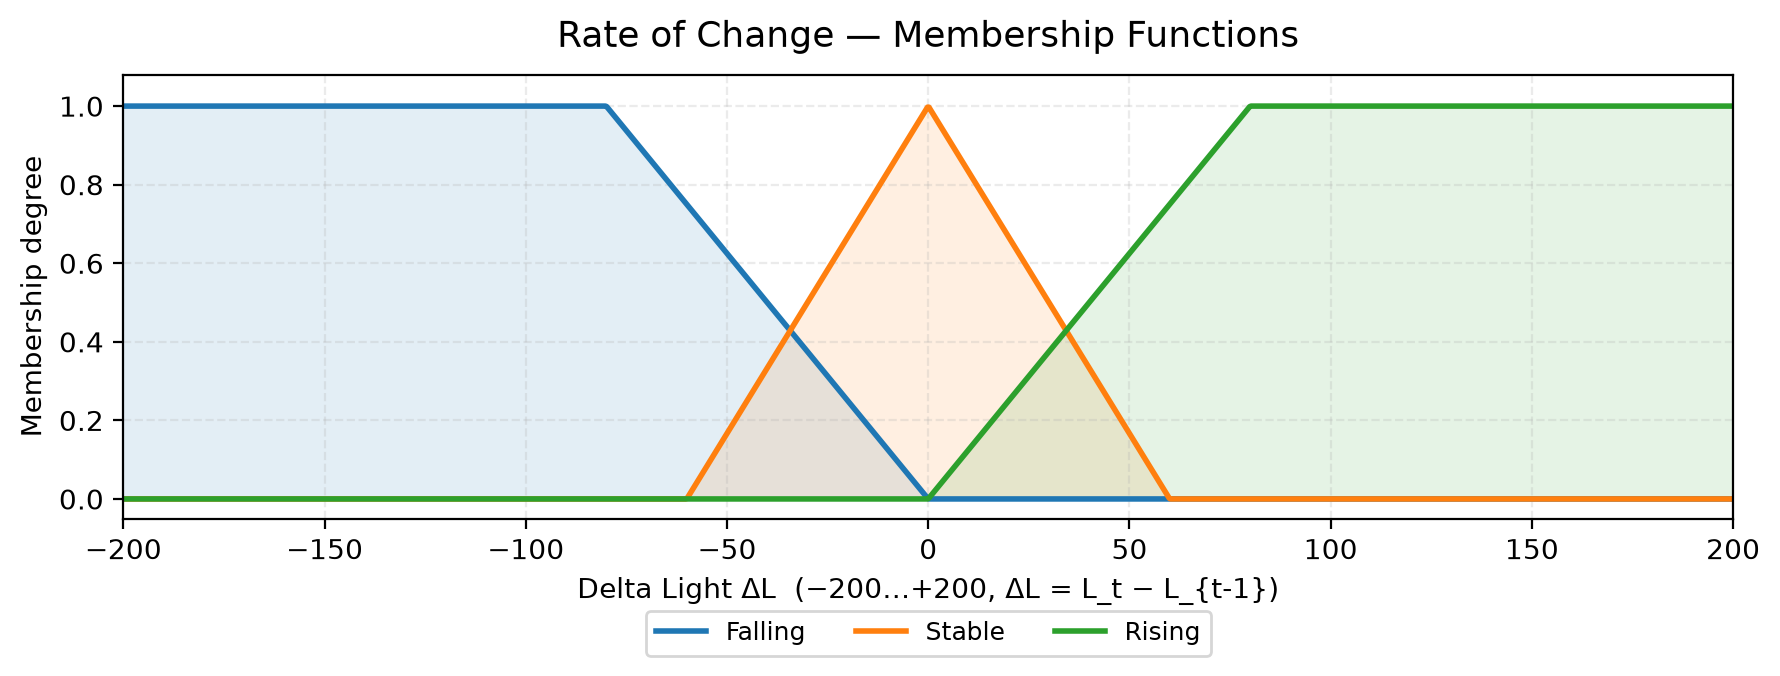
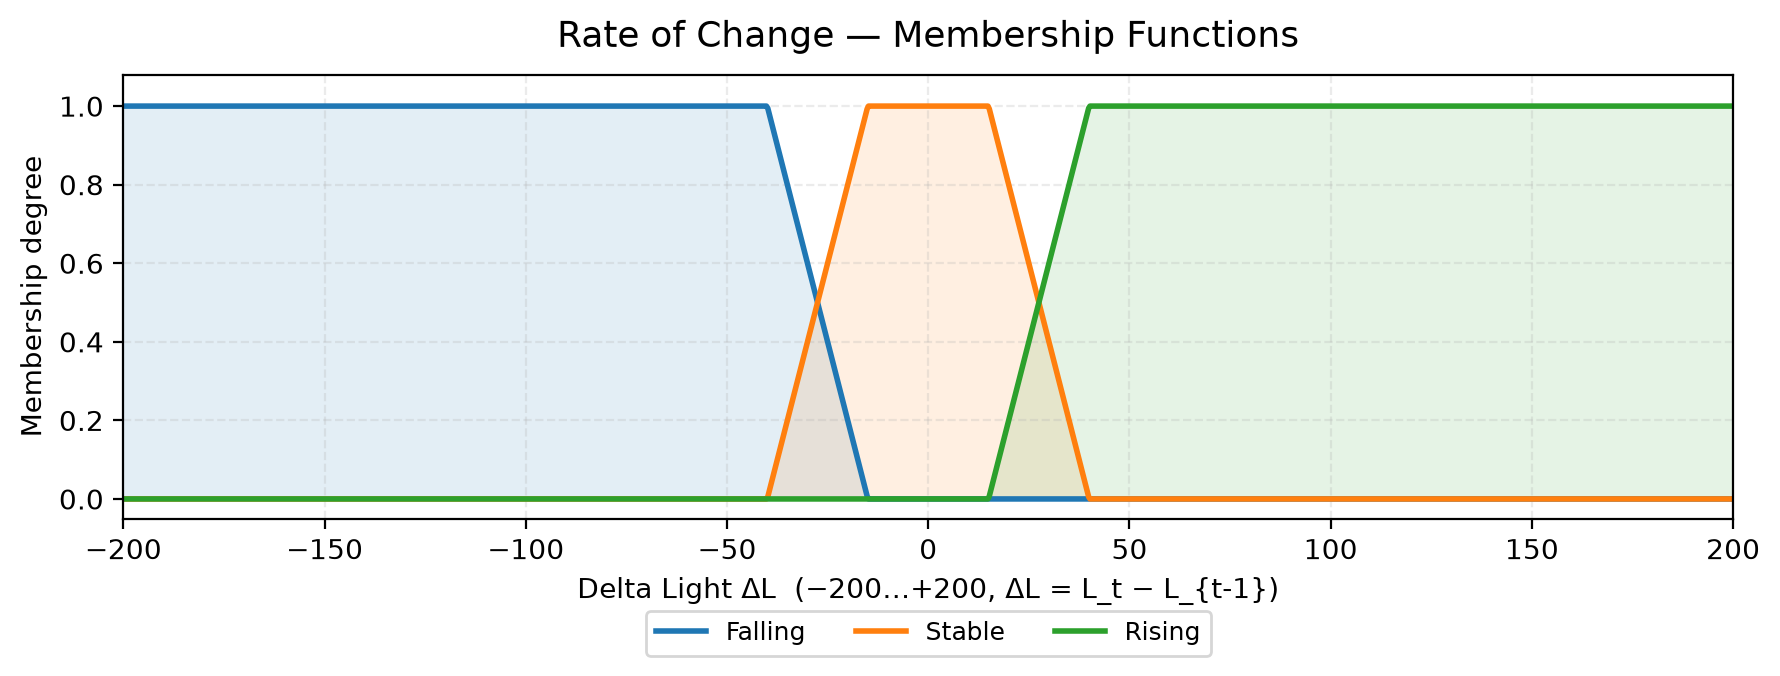
Merge pull request #3 from yerdnarthc/backend/membership/p1-1/yerdnarthc
Backend/membership/p1 1/yerdnarthc

Changed region(s): [[0.3399, 0.1553, 0.7107, 0.7456]]

diff --git a/IMPLEMENTATION_PLAN.md b/IMPLEMENTATION_PLAN.md
@@ -199,7 +199,7 @@ Use GitHub Projects or this table (copy into a `TRACKING.md` or Project board). 
 | ID | Phase | Task | Claimed by | Files | Status |
 |---|---|---|---|---|---|
 | P0-1 | 0 | Repo + CODEOWNERS + PR template | — (yerdnarthc) | `.github/` | done |
-| P1-1 | 1 | Freeze MF breakpoints + rule matrix + MF matplotlib diagram generator | Both (pair) | `config.py` | calibration-in-progress (yerdnarthc & jacy-sangre) |
+| P1-1 | 1 | Freeze MF breakpoints + rule matrix + MF matplotlib diagram generator | Both (pair) | `config.py` | done (yerdnarthc & jacy-sangre) |
 | P2-1 | 2 | `membership.py` + unit tests | — (claim; both review — Q&A coverage) | `backend/fuzzy/` | todo |
 | P2-2 | 2 | `rules.py` + `inference.py` + centroid | — (claim; both review — Q&A coverage) | `backend/fuzzy/` | todo |
 | P2-3 | 2 | Flask `/api/fuzzy/evaluate` + CORS | — (claim) | `app.py` | todo |
@@ -315,4 +315,4 @@ No Next.js, Node backend, DB, auth, Docker, MQTT/ESP32, weather API, ML/CV, mobi
 
 ---
 
-*Next step: Phase 1 together (freeze `config.py`), then pair on Phase 2 (fuzzy engine) so both can defend it — claim Phase 3+ tasks openly in §5.4.*
+*Phase 1 complete: `backend/fuzzy/config.py` now holds the pair-agreed MF breakpoints + rule matrix + `docs/figures/mf-*.png` verified. Next: pair on Phase 2 (fuzzy engine `membership.py / rules.py / inference.py`) so both can defend it — claim Phase 3+ tasks openly in §5.4.*
